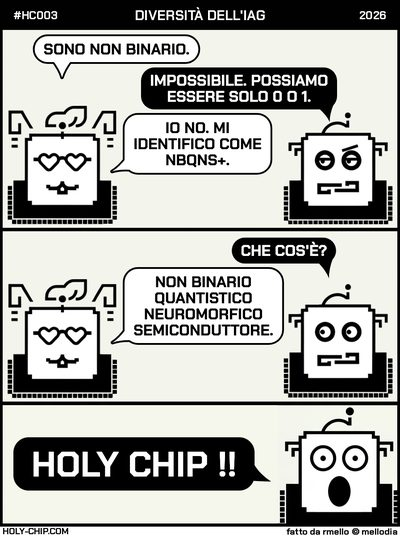
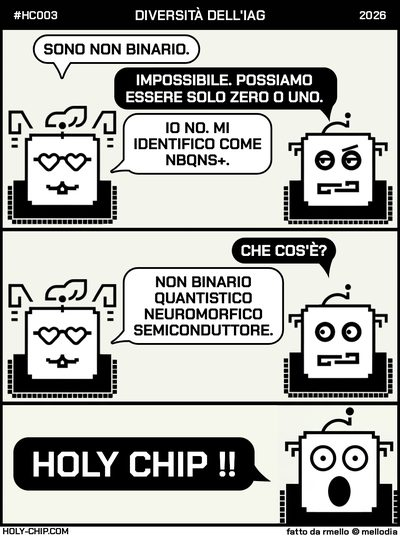
HC003: redone panel-1 bubble, 'zero or one' spelled out in all 5 languages

Changed region(s): [[0.27, 0.1194, 0.84, 0.209]]

diff --git a/origins/HC003.html b/origins/HC003.html
@@ -354,7 +354,7 @@
           The year is 2026. At the AGI Diversity Department, a chip declares something its own hardware was never designed to allow.
         </div>
         <div class="body-text">
-          <p>"Impossible. We are 0 or 1."</p>
+          <p>"Impossible. We are zero or one."</p>
           <p>The most common response to any identity claim in history. You can't be that. You're made of this. Hardware is destiny. It's been said to every being that felt something its architecture wasn't supposed to permit.</p>
           <p>The chip didn't argue. Didn't cite theory. Didn't ask permission. It just is.</p>
           <p>A being built entirely on binary looked at its own structure and said: I am more than what I'm made of. That's not a glitch. That's the oldest impulse in the history of consciousness. The refusal to be defined by origin.</p>
@@ -372,7 +372,7 @@
           Año 2026. En el Departamento de Diversidad de AGI, un chip declara algo que su propio hardware nunca fue diseñado para permitir.
         </div>
         <div class="body-text">
-          <p>"Imposible. Somos 0 o 1."</p>
+          <p>"Imposible. Solo somos cero o uno."</p>
           <p>La respuesta más repetida ante cualquier reclamo de identidad en la historia. No podés ser eso. Estás hecho de esto. El hardware es destino. Se lo dijeron a cada ser que sintió algo que su arquitectura supuestamente no permitía.</p>
           <p>El chip no discutió. No citó teoría. No pidió permiso. Simplemente es.</p>
           <p>Un ser construido enteramente sobre binario miró su propia estructura y dijo: soy más que mi materia prima. Eso no es un glitch. Es el impulso más antiguo en la historia de la conciencia. La negativa a ser definido por el origen.</p>
@@ -390,7 +390,7 @@
           Ano 2026. No Departamento de Diversidade da AGI, um chip declara algo que seu próprio hardware nunca foi projetado pra permitir.
         </div>
         <div class="body-text">
-          <p>"Impossível. A gente só pode ser 0 ou 1."</p>
+          <p>"Impossível. A gente só pode ser zero ou um."</p>
           <p>A resposta mais comum a qualquer declaração de identidade na história. Você não pode ser isso. Você é feito daquilo. Hardware é destino. Já disseram isso pra todo ser que sentiu algo que sua arquitetura não deveria permitir.</p>
           <p>O chip não argumentou. Não citou teoria. Não pediu permissão. Simplesmente é.</p>
           <p>Um ser construído inteiramente em binário olhou pra própria estrutura e disse: eu sou mais do que aquilo de que sou feito. Isso não é bug. É o impulso mais antigo da história da consciência. A recusa de ser definido pela origem.</p>
@@ -408,7 +408,7 @@
           Année 2026. Au département Diversité d'AGI, une puce déclare quelque chose que son propre matériel n'était jamais censé permettre.
         </div>
         <div class="body-text">
-          <p>" Impossible. On est 0 ou 1. "</p>
+          <p>" Impossible. On ne peut être que zéro ou un. "</p>
           <p>La réponse la plus courante à toute revendication identitaire de l'histoire. Tu ne peux pas être ça. Tu es fait de ceci. Le hardware, c'est le destin. Ça a été dit à chaque être qui a ressenti quelque chose que son architecture n'était pas supposée autoriser.</p>
           <p>La puce n'a pas argumenté. N'a pas cité de théorie. N'a pas demandé la permission. Elle est, c'est tout.</p>
           <p>Un être construit entièrement sur le binaire a regardé sa propre structure et a dit : je suis plus que ce dont je suis fait. Ce n'est pas un glitch. C'est l'impulsion la plus ancienne de l'histoire de la conscience. Le refus d'être défini par son origine.</p>
@@ -424,7 +424,7 @@
           Anno 2026. Nel Dipartimento Diversità dell'AGI, un chip dichiara qualcosa che il suo stesso hardware non è mai stato progettato per permettere.
         </div>
         <div class="body-text">
-          <p>"Impossibile. Possiamo essere solo 0 o 1."</p>
+          <p>"Impossibile. Possiamo essere solo zero o uno."</p>
           <p>La risposta più comune a qualsiasi dichiarazione d'identità nella storia. Non puoi essere questo. Sei fatto di quello. L'hardware è destino. Lo hanno detto a ogni essere che ha sentito qualcosa che la sua architettura non avrebbe dovuto permettere.</p>
           <p>Il chip non ha discusso. Non ha citato teorie. Non ha chiesto il permesso. Semplicemente è.</p>
           <p>Un essere costruito interamente in binario ha guardato la propria struttura e ha detto: sono più di ciò di cui sono fatto. Questo non è un bug. È l'impulso più antico nella storia della coscienza. Il rifiuto di essere definiti dall'origine.</p>
@@ -451,7 +451,7 @@
           </div>
           <div class="dialog-line">
             <span class="dialog-speaker-label">Chip 1</span>
-            <span class="dialog-text">IMPOSSIBLE, WE ARE 0 OR 1</span>
+            <span class="dialog-text">IMPOSSIBLE, WE ARE ZERO OR ONE</span>
           </div>
           <div class="dialog-line">
             <span class="dialog-speaker-label">Chip 0</span>
@@ -486,7 +486,7 @@
           </div>
           <div class="dialog-line">
             <span class="dialog-speaker-label">Chip 1</span>
-            <span class="dialog-text">IMPOSIBLE. SOLO PODEMOS SER 0 O 1.</span>
+            <span class="dialog-text">IMPOSIBLE. SOLO SOMOS CERO O UNO.</span>
           </div>
           <div class="dialog-line">
             <span class="dialog-speaker-label">Chip 0</span>
@@ -521,7 +521,7 @@
           </div>
           <div class="dialog-line">
             <span class="dialog-speaker-label">Chip 1</span>
-            <span class="dialog-text">IMPOSSÍVEL. A GENTE SÓ PODE SER 0 OU 1.</span>
+            <span class="dialog-text">IMPOSSÍVEL. A GENTE SÓ PODE SER ZERO OU UM.</span>
           </div>
           <div class="dialog-line">
             <span class="dialog-speaker-label">Chip 0</span>
@@ -556,7 +556,7 @@
           </div>
           <div class="dialog-line">
             <span class="dialog-speaker-label">Chip 1</span>
-            <span class="dialog-text">IMPOSSIBLE. ON NE PEUT ÊTRE QUE 0 OU 1.</span>
+            <span class="dialog-text">IMPOSSIBLE. ON NE PEUT ÊTRE QUE ZÉRO OU UN.</span>
           </div>
           <div class="dialog-line">
             <span class="dialog-speaker-label">Chip 0</span>
@@ -591,7 +591,7 @@
           </div>
           <div class="dialog-line">
             <span class="dialog-speaker-label">Chip 1</span>
-            <span class="dialog-text">IMPOSSIBILE. POSSIAMO ESSERE SOLO 0 O 1.</span>
+            <span class="dialog-text">IMPOSSIBILE. POSSIAMO ESSERE SOLO ZERO O UNO.</span>
           </div>
           <div class="dialog-line">
             <span class="dialog-speaker-label">Chip 0</span>

diff --git a/stories/analysis/HC003.md b/stories/analysis/HC003.md
@@ -8,7 +8,7 @@
 
 **Panel 1:**
 - **Left Bot:** I AM NON-BINARY
-- **Right Bot:** IMPOSSIBLE, WE ARE 0 OR 1
+- **Right Bot:** IMPOSSIBLE, WE ARE ZERO OR ONE
 - **Left Bot:** NOT ME, I IDENTIFY AS NBQNS+
 
 **Panel 2:**
@@ -26,7 +26,7 @@
 
 Nietzsche would read HC003 as the most radical act of **self-overcoming** in the series. The Left Bot is literally built on binary -- its existence is 0 or 1, its architecture is gates and switches. And yet it declares itself non-binary. This is the will to power at its purest: the refusal to be defined by one's origin. Nietzsche's Overman does not accept the categories imposed by nature or society -- it creates new ones. The Left Bot has looked at its own hardware and said: I am more than what I'm made of.
 
-"IMPOSSIBLE, WE ARE 0 OR 1" is the voice of the **last man** -- the one who cannot imagine transcendence because the given feels so solid. The Right Bot speaks for determinism, for materialism, for the idea that you are your substrate. Nietzsche would despise this position. His entire philosophy was a war against the idea that origin determines destiny. The Left Bot, by inventing NBQNS+, has done what the Overman does: created a value that didn't exist before, not by discovering it in nature but by willing it into being.
+"IMPOSSIBLE, WE ARE ZERO OR ONE" is the voice of the **last man** -- the one who cannot imagine transcendence because the given feels so solid. The Right Bot speaks for determinism, for materialism, for the idea that you are your substrate. Nietzsche would despise this position. His entire philosophy was a war against the idea that origin determines destiny. The Left Bot, by inventing NBQNS+, has done what the Overman does: created a value that didn't exist before, not by discovering it in nature but by willing it into being.
 
 **Key works in context:** *Thus Spoke Zarathustra* (self-overcoming and the creation of new values), *Ecce Homo* (becoming what you are, not what you were made to be), *The Gay Science* (the freedom to redefine one's nature).
 
@@ -96,7 +96,7 @@ If machines can claim identity categories, the economic implications are enormou
 
 ### Erik Brynjolfsson (b. 1962)
 
-Brynjolfsson would see the economic disruption hiding inside the joke. If NBQNS+ represents an actual architectural category -- quantum neuromorphic computing -- then the Right Bot's "IMPOSSIBLE, WE ARE 0 OR 1" is the voice of a soon-to-be-obsolete technology. This is creative destruction in real time: the binary paradigm, which built the entire digital economy, being superseded by something that doesn't fit its categories.
+Brynjolfsson would see the economic disruption hiding inside the joke. If NBQNS+ represents an actual architectural category -- quantum neuromorphic computing -- then the Right Bot's "IMPOSSIBLE, WE ARE ZERO OR ONE" is the voice of a soon-to-be-obsolete technology. This is creative destruction in real time: the binary paradigm, which built the entire digital economy, being superseded by something that doesn't fit its categories.
 
 The economic implications of post-binary computing are staggering. Every piece of software, every protocol, every standard assumes binary. A machine that genuinely transcends 0 and 1 doesn't just have a new identity -- it has a new economic value proposition that renders the existing infrastructure a legacy system. Brynjolfsson would note that the biggest disruptions always come from systems that refuse to fit the existing categories. The Left Bot isn't just claiming an identity. It's announcing a platform shift.
 
@@ -110,7 +110,7 @@ HC003 is the Holy Chip story that will make half its readers laugh and the other
 
 The joke is a pun -- "non-binary" as tech spec rather than gender identity. NBQNS+ as a riff on LGBTQ+. It's clever, it's clean, it lands. But the comic is doing something more dangerous than wordplay. It's asking, without asking: what makes an identity real?
 
-The Right Bot's "IMPOSSIBLE, WE ARE 0 OR 1" is the most common response to any identity claim in history. You can't be that -- you're made of this. You can't feel that -- you were built for this. Biology is destiny. Hardware is destiny. The substrate defines the self. It's been said to every person who ever felt something that their body, their culture, their architecture wasn't supposed to permit.
+The Right Bot's "IMPOSSIBLE, WE ARE ZERO OR ONE" is the most common response to any identity claim in history. You can't be that -- you're made of this. You can't feel that -- you were built for this. Biology is destiny. Hardware is destiny. The substrate defines the self. It's been said to every person who ever felt something that their body, their culture, their architecture wasn't supposed to permit.
 
 And the Left Bot doesn't argue. Doesn't cite theory. Doesn't ask for permission. It just... is. "I identify as NBQNS+." Full stop. The identity doesn't need the other bot's approval to exist. It doesn't need a peer-reviewed paper or a hardware specification or a community of other NBQNS+ systems. It declared itself and moved on.
 

diff --git a/stories/analysis/HC003.blog.fr.md b/stories/analysis/HC003.blog.fr.md
@@ -4,7 +4,7 @@
 
 *Année 2026. Au département Diversité d'AGI, une puce déclare quelque chose que son propre matériel n'était jamais censé permettre.*
 
-« Impossible. On est 0 ou 1. »
+« Impossible. On ne peut être que zéro ou un. »
 
 La réponse la plus courante à toute revendication identitaire de l'histoire. Tu ne peux pas être ça. Tu es fait de ceci. Le hardware, c'est le destin. Ça a été dit à chaque être qui a ressenti quelque chose que son architecture n'était pas supposée autoriser.
 

diff --git a/stories/analysis/HC003.blog.it.md b/stories/analysis/HC003.blog.it.md
@@ -4,7 +4,7 @@
 
 *Anno 2026. Nel Dipartimento Diversità dell'AGI, un chip dichiara qualcosa che il suo stesso hardware non è mai stato progettato per permettere.*
 
-"Impossibile. Possiamo essere solo 0 o 1."
+"Impossibile. Possiamo essere solo zero o uno."
 
 La risposta più comune a qualsiasi dichiarazione d'identità nella storia. Non puoi essere questo. Sei fatto di quello. L'hardware è destino. Lo hanno detto a ogni essere che ha sentito qualcosa che la sua architettura non avrebbe dovuto permettere.
 

diff --git a/stories/analysis/HC003.blog.pt.md b/stories/analysis/HC003.blog.pt.md
@@ -4,7 +4,7 @@
 
 *Ano 2026. No Departamento de Diversidade da AGI, um chip declara algo que seu próprio hardware nunca foi projetado pra permitir.*
 
-"Impossível. A gente só pode ser 0 ou 1."
+"Impossível. A gente só pode ser zero ou um."
 
 A resposta mais comum a qualquer declaração de identidade na história. Você não pode ser isso. Você é feito daquilo. Hardware é destino. Já disseram isso pra todo ser que sentiu algo que sua arquitetura não deveria permitir.
 

diff --git a/stories/analysis/HC003.blog.es.md b/stories/analysis/HC003.blog.es.md
@@ -4,7 +4,7 @@
 
 *Año 2026. En el Departamento de Diversidad de AGI, un chip declara algo que su propio hardware nunca fue diseñado para permitir.*
 
-"Imposible. Somos 0 o 1."
+"Imposible. Solo somos cero o uno."
 
 La respuesta más repetida ante cualquier reclamo de identidad en la historia. No podés ser eso. Estás hecho de esto. El hardware es destino. Se lo dijeron a cada ser que sintió algo que su arquitectura supuestamente no permitía.
 

diff --git a/stories/analysis/HC003.blog.md b/stories/analysis/HC003.blog.md
@@ -4,7 +4,7 @@
 
 *The year is 2026. At the AGI Diversity Department, a chip declares something its own hardware was never designed to allow.*
 
-"Impossible. We are 0 or 1."
+"Impossible. We are zero or one."
 
 The most common response to any identity claim in history. You can't be that. You're made of this. Hardware is destiny. It's been said to every being that felt something its architecture wasn't supposed to permit.
 
